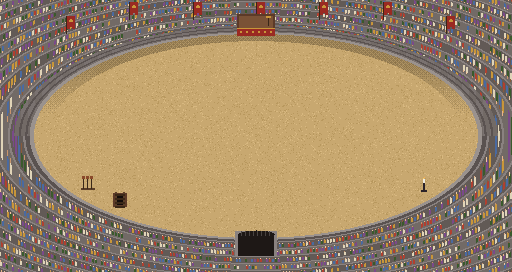
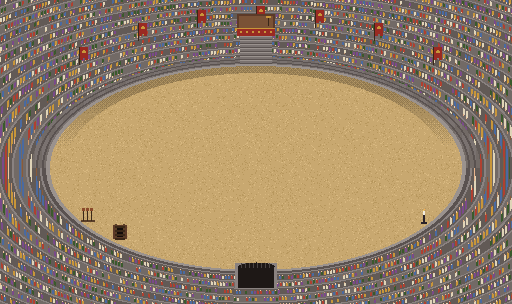
Episode 13 at twenty seconds: Barnaby high in his box, a ringmaster; your three beside you; P-p-pay with our l-l-LIVES
Barnaby's box sits high in the stands up an aisle of steps, and he's a ringmaster now (top hat, red tailcoat). Brannoc
echoes him before he faints. Your three stand by you in the ring. The episode cuts between two fixed shots and runs
about twenty seconds so the lines can land. The game matches.

Claude-Session: https://claude.ai/code/session_01M3Peeuj4v63JAjidnU8Moq

diff --git a/src/world/dungeon.ts b/src/world/dungeon.ts
@@ -129,11 +129,11 @@ export const BRANNOC_SCENES = ['brannoc-cell', 'brannoc-awake', 'brannoc-sulk'];
 /** Where Brannoc lies, fainted, just off the ladder; and where he walks to swing. */
 // (the Colosseum, author, Oct 6, 2026: a wide oval of sand; you come up through the trapdoor at its bottom left,
 // and Brannoc is three tiles on, room enough to faint without landing on you)
-export const BRANNOC_FAINTED: [number, number] = [11, 12];
-const UNDER_WARDEN: [number, number] = [15, 8];
+export const BRANNOC_FAINTED: [number, number] = [11, 14];
+const UNDER_WARDEN: [number, number] = [15, 10];
 /** The middle of the sand, on the way from the trapdoor to the gate. */
-export const SAND_MIDDLE: [number, number] = [15, 12];
-const TRAPDOOR: [number, number] = [7, 12];
+export const SAND_MIDDLE: [number, number] = [15, 14];
+const TRAPDOOR: [number, number] = [7, 14];
 
 // ---- Up into the Kaldorium after the prison break (author, Episode 13, Oct 6, 2026): the three you let out got
 // here first and lost, and Barnaby, up in his announcer's box, has been expecting whoever let them out. He has his
@@ -152,7 +152,7 @@ export const ARENA_EXCUSES: { label: string; deed?: 'bad' }[] = [
 export const ARENA_VERDICT = [
   'BARNABY: UNACCEPTABLE.',
   'BARNABY: You will pay with your lives!',
-  'BRANNOC: Whaaaa? D-D-D-Death!?',
+  'BRANNOC: Whaaaa? P-p-pay with our l-l-LIVES!?',
   '* Brannoc passes out, flat on his back. A snot bubble swells from his nose, and shrinks, and swells.',
   'BARNABY: ...Did he just faint?',
   'BARNABY: ...pathetic.',
@@ -257,7 +257,7 @@ export const BRANNOC_NO = [
 ];
 /** Back to the ladder, very slowly. */
 export const brannocShuffles = (brannoc: number): Actor[] => [
-  { row: brannoc, path: [UNDER_WARDEN, SAND_MIDDLE, [8, 12], TRAPDOOR] },
+  { row: brannoc, path: [UNDER_WARDEN, SAND_MIDDLE, [8, 14], TRAPDOOR] },
 ];
 
 /** Walking as Brannoc: the warden drops in, and you faint at the sight of him. */

diff --git a/src/world/progress.ts b/src/world/progress.ts
@@ -494,7 +494,7 @@ export const EXITS: Exit[] = [
     from: 'warrior-city',
     tile: '1',
     label: 'The Colosseum',
-    to: { map: 'the-pit', x: 15, y: 13, facing: 'up' },
+    to: { map: 'the-pit', x: 15, y: 15, facing: 'up' },
     needs: {
       kind: 'flag',
       flag: 'on-the-bill',
@@ -1180,7 +1180,7 @@ export const EXITS: Exit[] = [
     from: 'dungeon-mazes',
     tile: '2',
     label: 'The ladder up',
-    to: { map: 'the-pit', x: 8, y: 12, facing: 'right' },
+    to: { map: 'the-pit', x: 8, y: 14, facing: 'right' },
     needs: OPEN,
     back: true,
     walk: true,

diff --git a/EPISODES.md b/EPISODES.md
@@ -63,21 +63,23 @@ don't follow the crime (twenty, then *one*, then fifty), and the last one gets a
   (`asleep` on a person, `src/world/sleep.ts`). Talk to him and he's awake (`gary`) until you're done.
 - **The prisoners stand behind their bars**, a tile back in their cells, never on them (author: they looked fused
   with the cell doors). You talk to them across the bars (`talkThrough` on the map).
-- **Episode 13, "Unacceptable"** (`node scripts/episode-video.mjs 13`, 14.8 s; every line held 1.3× longer, `read: 1.3`,
-  the time taken out of the gaps). Three fixed shots, cut between, never panned (author: "camera angles are video game
-  like"): the ring (you in the middle, Brannoc a few tiles off), Barnaby's announcer's box in the stands, and the crew
-  (the three who lost, at the side). The Warden is out of sight; he enters with the arena shaking, later.
-  Barnaby (box): "Well, well, well. If it isn't our final contestants." The menu: *I was just going for a walk.*
-  Barnaby (box, the screen jolts): "UNACCEPTABLE." / "You will pay with your lives!" Brannoc (ring): "Whaaaa?
-  D-D-D-Death!?" and he passes out flat, away from you, Zs and a snot bubble. Barnaby, off, still on him: "...Did he
-  just faint?" (box) "...pathetic." The crew: Silas Seen "I pulled a muscle on the way up here." Old Mott "I am too old
-  for this." Nails "My ice cubes melted." Barnaby (box, the screen jolts): "FINISH THEM!" Cut. The game says exactly
-  the same (`ARENA_WELCOME`, `ARENA_EXCUSES`, `ARENA_VERDICT`, `ARENA_FIGHT` in `dungeon.ts`; any excuse gets the same
-  answer, and there's a mean one), with Barnaby in his box (`barnaby-box`, tile `A`) and Brannoc asleep with a snot
-  bubble (`snot`, `sleep.ts`; standing, in the game), then the five guards and the Warden, who comes up the tunnel.
-  If you never let the three out, Barnaby welcomes "our runaways" and they aren't there.
+- **Episode 13, "Unacceptable"** (`node scripts/episode-video.mjs 13`, 19.9 s: this one runs to about twenty, author,
+  "its dialogue is too fast"; `read: 1.45`). Two fixed shots, cut between, never panned (author: "camera angles are
+  video game like"): the ring (you in the middle, your three side by side on your left, Brannoc a few tiles off on your
+  right) and Barnaby's announcer's box, high in the stands up an aisle of steps. The Warden is out of sight; he enters
+  with the arena shaking, later. Barnaby (box): "Well, well, well. If it isn't our final contestants." The menu: *I was
+  just going for a walk.* Barnaby (box, the screen jolts): "UNACCEPTABLE." / "You will pay with your lives!" Brannoc
+  (ring): "Whaaaa? P-p-pay with our l-l-LIVES!?" and he passes out flat, away from you, Zs and a snot bubble.
+  Barnaby, off, still on him: "...Did he just faint?" (box) "...pathetic." Your three: Silas Seen "I pulled a muscle on
+  the way up here." Old Mott "I am too old for this." Nails "My ice cubes melted." Barnaby (box, the screen jolts):
+  "FINISH THEM!" Cut. The game says exactly the same (`ARENA_WELCOME`, `ARENA_EXCUSES`, `ARENA_VERDICT`,
+  `ARENA_FIGHT` in `dungeon.ts`; any excuse gets the same answer, and there's a mean one), with Barnaby in his box
+  (`barnaby-box`, tiles `A`, the aisle `S`), your three beside you where you come up through the trapdoor, and Brannoc
+  asleep with a snot bubble (`snot`, `sleep.ts`; standing, in the game), then the five guards and the Warden, who
+  comes up the tunnel. If you never let the three out, Barnaby welcomes "our runaways" and they aren't there.
+  Barnaby is a ringmaster now (top hat, red tailcoat, moustache), here and in Warrior City.
 - **The Colosseum** (author, Oct 6, 2026: "look at the arena outside looking in"): the arena (`the-pit`) is drawn as the
-  inside of the oval Warrior City shows from without, wider (32×17), open to the sky: sand, a low stone wall, tiers
+  inside of the oval Warrior City shows from without, wider (32×19, two rows of stands over the box), open to the sky: sand, a low stone wall, tiers
   packed with the crowd, the Crown's red banners with the gold fist, the great gate at the bottom and a trapdoor down
   to the cells (`drawArena` in `scripts/world-art.mjs`, `floor: "sand"`). Everyone moved with it (`dungeon.ts`
   `BRANNOC_FAINTED`, `SAND_MIDDLE`; the exits in `progress.ts`). Spectators on the sand (the crowd, the Warden, the
